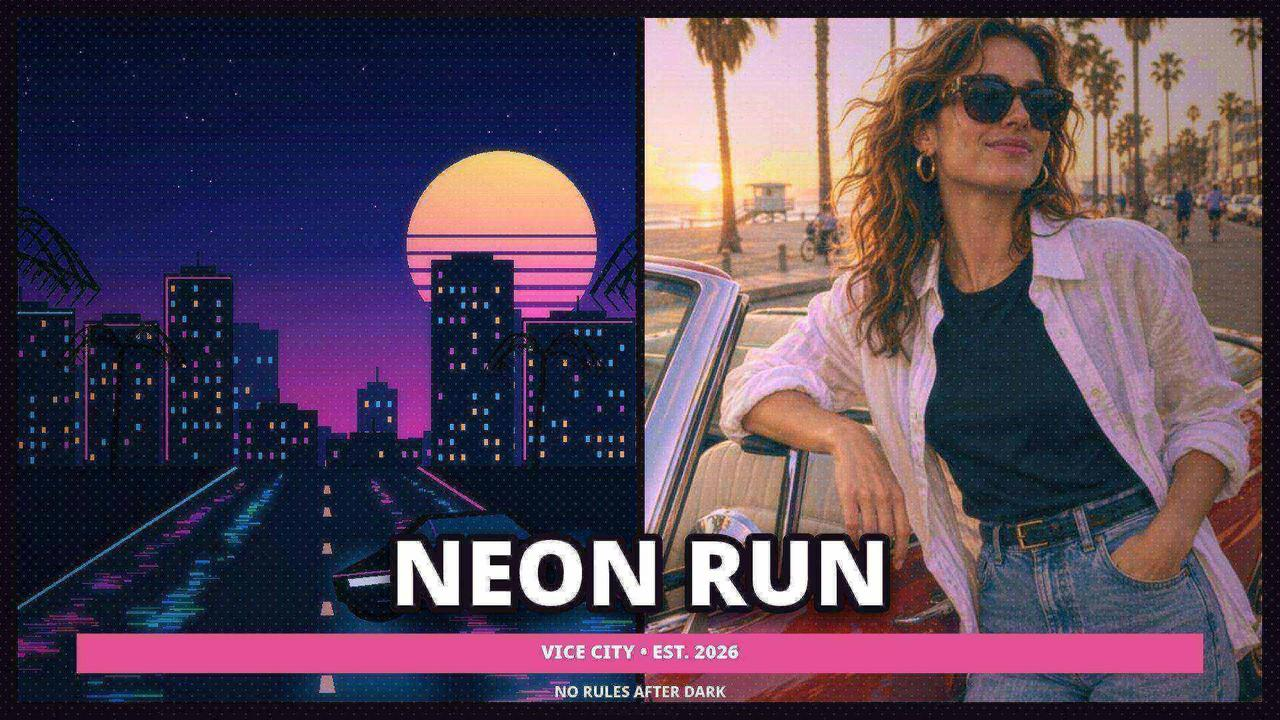
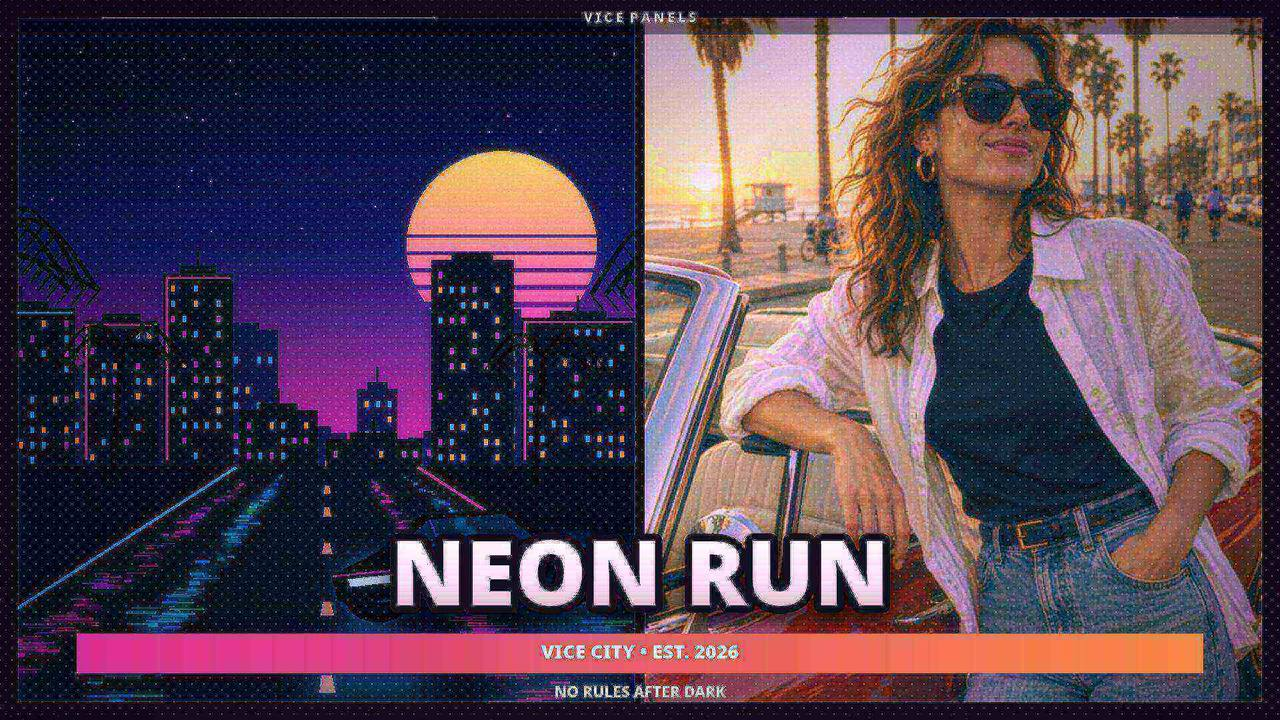
Round 5 art polish: photographic finish on illustrated samples, halation + deterministic grain in renderer, gradient lettering and masthead (recorded session)

Changed region(s): [[0.0, 0.0, 1.0, 0.9778], [0.7812, 0.55, 0.8125, 0.5806], [0.0, 0.7333, 0.0312, 0.7639]]

diff --git a/app/src/cover.js b/app/src/cover.js
@@ -31,6 +31,8 @@ function gradedPhoto(photo, grade) {
     const skin=r>g&&g>b&&r-b>18&&l>.18&&l<.88 ? .38 : 1;
     const x=(i/4)%layer.width,y=Math.floor(i/4/layer.width);
     if(grade==='sunset'){
+      const curve=value=>255*(.5+Math.tanh((value/255-.5)*1.22)/(2*Math.tanh(.61)));
+      r=curve(r);g=curve(g);b=curve(b);
       const gray=l*255;
       r=gray+(r-gray)*1.35;g=gray+(g-gray)*1.35;b=gray+(b-gray)*1.35;
       const sky=Math.pow(Math.max(0,1-y/(layer.height*.7)),1.3)*(.3+.7*l)*skin;
@@ -59,10 +61,19 @@ function gradedPhoto(photo, grade) {
     data[i]=clamp(r);data[i+1]=clamp(g);data[i+2]=clamp(b);
   }
   context.putImageData(pixels,0,0);
-  if(grade==='neon'){
+  // Coordinate-hashed grain is stable across redraws and exports.
+  const grain=context.getImageData(0,0,layer.width,layer.height),gd=grain.data;
+  for(let i=0;i<gd.length;i+=4){
+    const x=(i/4)%layer.width,y=Math.floor(i/4/layer.width);
+    const hash=Math.sin(x*127.1+y*311.7+grade.length*74.7)*43758.5453;
+    const noise=((hash-Math.floor(hash))-.5)*4.2;
+    gd[i]=clamp(gd[i]+noise);gd[i+1]=clamp(gd[i+1]+noise);gd[i+2]=clamp(gd[i+2]+noise);
+  }
+  context.putImageData(grain,0,0);
+  if(grade==='neon'||grade==='sunset'||grade==='golden'){
     // Screen a softly blurred copy for luminous signs and headlights.
-    context.save();context.globalCompositeOperation='screen';context.globalAlpha=.22;
-    context.filter=`blur(${Math.max(3,layer.width*.007)}px)`;
+    context.save();context.globalCompositeOperation='screen';context.globalAlpha=grade==='neon'?.22:.11;
+    context.filter=`blur(${Math.max(3,layer.width*(grade==='neon'?.007:.004))}px)`;
     context.drawImage(layer,0,0);context.restore();
   }
   cached.set(grade,layer);return layer;
@@ -95,6 +106,14 @@ function drawPanel(ctx, rect, panel, grade) {
     ctx.drawImage(gradedPhoto(photo,panel.grade||grade),cx-dw/2,cy-dh/2,dw,dh);
   } else drawPlaceholder(ctx,x,y,w,h);
   ctx.restore();
+  // Fine printed plate edge and inward shading, clipped to this panel.
+  ctx.save();ctx.beginPath();ctx.rect(x,y,w,h);ctx.clip();
+  const edge=ctx.createLinearGradient(x,y,x+w,y+h);
+  edge.addColorStop(0,'rgba(0,0,0,.24)');edge.addColorStop(.18,'rgba(0,0,0,0)');
+  edge.addColorStop(.82,'rgba(0,0,0,0)');edge.addColorStop(1,'rgba(0,0,0,.28)');
+  ctx.fillStyle=edge;ctx.fillRect(x,y,w,h);
+  ctx.strokeStyle='rgba(255,255,255,0.14)';ctx.lineWidth=Math.max(1,Math.min(2,w/500));
+  ctx.strokeRect(x+ctx.lineWidth/2,y+ctx.lineWidth/2,w-ctx.lineWidth,h-ctx.lineWidth);ctx.restore();
 }
 function drawPlaceholder(ctx,x,y,w,h){ctx.fillStyle='#34273a';ctx.fillRect(x,y,w,h);ctx.strokeStyle='#61516a';ctx.lineWidth=2;ctx.strokeRect(x+12,y+12,w-24,h-24);ctx.fillStyle='#9b8da2';ctx.textAlign='center';ctx.font=`700 ${Math.min(w,h)*.06}px system-ui`;ctx.fillText('DROP PHOTO',x+w/2,y+h/2);}
 
@@ -115,9 +134,15 @@ function drawWholeFinish(ctx,w,h,enabled){
   ctx.globalAlpha=.08;for(let i=0;i<Math.min(3500,w*h/700);i++){ctx.fillStyle=i%2?'#fff':'#000';ctx.fillRect(Math.random()*w,Math.random()*h,Math.max(1,w/1300),Math.max(1,h/1300));}ctx.restore();
 }
 function drawLettering(ctx,w,h,state){
+  const mastH=h*.048;ctx.save();ctx.fillStyle='rgba(12,9,17,.46)';ctx.fillRect(0,0,w,mastH);
+  const mastSize=Math.max(9,h*.018);ctx.font=`700 ${mastSize}px system-ui,sans-serif`;ctx.textAlign='center';ctx.textBaseline='middle';
+  ctx.fillStyle='rgba(255,255,255,.85)';ctx.fillText('V I C E  P A N E L S',w/2,mastH*.52);
+  const ruleY=mastH*.52,ruleEnd=w*.36;ctx.strokeStyle='rgba(255,255,255,.55)';ctx.lineWidth=Math.max(1,h*.0012);
+  ctx.beginPath();ctx.moveTo(w*.08,ruleY);ctx.lineTo(w*.34,ruleY);ctx.moveTo(w*.66,ruleY);ctx.lineTo(w*.92,ruleY);ctx.stroke();ctx.restore();
   const title=(state.title||'').trim().toUpperCase();
   if(title){let size=h*.125;ctx.textAlign='center';ctx.textBaseline='middle';ctx.font=`1000 ${size}px Impact, "Arial Narrow", system-ui, sans-serif`;while(ctx.measureText(title).width>w*.91&&size>10){size*=.94;ctx.font=`1000 ${size}px Impact, "Arial Narrow", system-ui, sans-serif`;}
-    const y=h*.805;ctx.save();ctx.lineJoin='round';ctx.shadowColor='rgba(0,0,0,.8)';ctx.shadowBlur=size*.23;ctx.shadowOffsetY=size*.08;ctx.strokeStyle='#120f15';ctx.lineWidth=size*.17;ctx.strokeText(title,w/2,y,w*.93);ctx.shadowColor='transparent';ctx.fillStyle='#fff';ctx.fillText(title,w/2,y,w*.93);ctx.restore();}
-  const subtitle=(state.subtitle||'').trim();if(subtitle){const bandH=h*.055, y=h*.88;ctx.fillStyle='#e64f8d';ctx.fillRect(w*.06,y,w*.88,bandH);ctx.fillStyle='#fff';ctx.font=`900 ${bandH*.48}px system-ui, sans-serif`;ctx.textAlign='center';ctx.textBaseline='middle';ctx.fillText(subtitle.toUpperCase(),w/2,y+bandH/2,w*.82);}
+    const y=h*.805;ctx.save();ctx.lineJoin='round';ctx.shadowColor='rgba(0,0,0,.8)';ctx.shadowBlur=size*.23;ctx.shadowOffsetY=size*.08;ctx.strokeStyle='#120f15';ctx.lineWidth=size*.17;ctx.strokeText(title,w/2,y,w*.93);ctx.shadowColor='transparent';
+    const titleFill=ctx.createLinearGradient(0,y-size*.55,0,y+size*.55);titleFill.addColorStop(0,'#ffffff');titleFill.addColorStop(.48,'#ffe3f1');titleFill.addColorStop(1,'#b8adb0');ctx.fillStyle=titleFill;ctx.fillText(title,w/2,y,w*.93);ctx.restore();}
+  const subtitle=(state.subtitle||'').trim();if(subtitle){const bandH=h*.055, y=h*.88;const band=ctx.createLinearGradient(w*.06,y,w*.94,y);band.addColorStop(0,'#d92d92');band.addColorStop(1,'#f58a42');ctx.fillStyle=band;ctx.fillRect(w*.06,y,w*.88,bandH);ctx.fillStyle='#fff';ctx.font=`900 ${bandH*.48}px system-ui, sans-serif`;ctx.textAlign='center';ctx.textBaseline='middle';ctx.fillText(subtitle.toUpperCase(),w/2,y+bandH/2,w*.82);}
   const tag=(state.tagline||'').trim();if(tag){ctx.textAlign='center';ctx.textBaseline='middle';ctx.fillStyle='rgba(255,255,255,.9)';ctx.font=`800 ${h*.021}px system-ui,sans-serif`;ctx.fillText(tag.toUpperCase(),w/2,h*.963,w*.9);}
 }

diff --git a/main.ts b/main.ts
@@ -1,11 +1,6 @@
-// A working gta6-cover-art-01 entry (Node 22, standard library only): the app is this directory's app/ folder, plain
-// static files a desktop browser loads offline (app/index.html and its ES modules, no library and no network
-// request), and the program hands it in. It copies app/ and screenshots/ from beside this file to /output and writes
-// /output/dossier.json, the summary the judge reads, with the vendored make.fun library. Only the plumbing, not the
-// cover art the bounty asks for: Cover Snap, a plain one-photo square cover with a sunset tint and a bold caption,
-// exported as a 1080 x 1080 PNG. Its two sample photos (app/samples/) were made for make.fun with an image model and
-// are free to use. Build your own GTA-style cover maker in its place, put your 3 or 4 PNG or JPEG screenshots in
-// screenshots/ (the first by name is the cover) and run it.
+// Vice Panels is an offline GTA-style cover maker with four layouts, four colour grades, and bundled sample images.
+// Its static app runs in a desktop browser without network requests or libraries. This entrypoint packages app/ and
+// screenshots/ and writes the make.fun dossier to /output.
 //
 // Serve it locally with `node serve.ts`, then open http://localhost:8080.
 // Outside the grader's container, MAKEFUN_OUTPUT_DIR stands in for /output:

diff --git a/tools/make_sample.py b/tools/make_sample.py
@@ -110,6 +110,17 @@ d.polygon([(901, 714), (940, 711), (938, 721), (900, 724)], fill=(204, 250, 255)
 d.line((667, 767, 933, 744), fill=(56, 100, 127), width=2)
 d.polygon([(724, 750), (856, 736), (856, 751), (728, 766)], fill=(2, 5, 12))
 # A modest bloom keeps the drawing crisp while softening luminous edges.
+# Long mirrored colour streaks make the boulevard pavement read as wet.
+mirror = Image.new('RGBA', (W, H), (0, 0, 0, 0)); mr = ImageDraw.Draw(mirror)
+for ax, color in [(190, (239, 38, 143, 100)), (350, (43, 190, 224, 100)),
+                  (830, (231, 51, 149, 105)), (1030, (42, 205, 231, 100))]:
+    for _ in range(65):
+        yy = rng.randrange(610, H); t = (yy-590)/310
+        xx = 600+(ax-600)*(.2+t)+rng.gauss(0, 22*t)
+        half = rng.uniform(4, 44)*t
+        mr.line((xx-half, yy, xx+half, yy+rng.randrange(4, 23)), fill=color, width=rng.choice([2, 4, 6]))
+mirror = mirror.filter(ImageFilter.GaussianBlur(4))
+im = Image.alpha_composite(im.convert('RGBA'), mirror).convert('RGB')
 im = Image.blend(im, im.filter(ImageFilter.GaussianBlur(5)), .08)
 OUT.parent.mkdir(parents=True, exist_ok=True)
 for quality in range(91, 59, -3):
@@ -119,11 +130,58 @@ for quality in range(91, 59, -3):
 assert OUT.stat().st_size <= 130*1024, 'Sample exceeds size budget'
 print(f'Wrote {OUT} ({W}x{H}, {OUT.stat().st_size} bytes)')
 
+# Atmospheric finishing helpers for the three illustrated scenes.
+def atmosphere(scene, horizon, sky, sunbox, waterline=None):
+    """Layer soft light, cloud forms and distance haze into a scene."""
+    from PIL import ImageChops
+    light = Image.new('RGBA', scene.size, (0, 0, 0, 0))
+    ld = ImageDraw.Draw(light)
+    sx = (sunbox[0] + sunbox[2]) / 2
+    sy = (sunbox[1] + sunbox[3]) / 2
+    ld.ellipse((sx-190, sy-190, sx+190, sy+190), fill=(*sky, 150))
+    light = light.filter(ImageFilter.GaussianBlur(72))
+    scene = Image.alpha_composite(scene.convert('RGBA'), light).convert('RGB')
+    clouds = Image.new('RGBA', scene.size, (0, 0, 0, 0)); cd = ImageDraw.Draw(clouds)
+    for cx, cy, rx, ry in [(140, horizon-78, 180, 27), (410, horizon-112, 150, 23),
+                           (750, horizon-65, 210, 31), (1040, horizon-126, 165, 25)]:
+        col = (*tuple(min(255, int(c*.7+95)) for c in sky), 58)
+        for j in range(7):
+            ox = rng.randrange(-rx//2, rx//2); oy = rng.randrange(-ry//2, ry//2)
+            cd.ellipse((cx+ox-rx//3, cy+oy-ry//2, cx+ox+rx//3, cy+oy+ry//2), fill=col)
+    clouds = clouds.filter(ImageFilter.GaussianBlur(19))
+    scene = Image.alpha_composite(scene.convert('RGBA'), clouds).convert('RGB')
+    # Wash the distant skyline toward the sky, retaining strong foreground contrast.
+    haze = Image.new('RGBA', scene.size, (0, 0, 0, 0)); hd = ImageDraw.Draw(haze)
+    hd.rectangle((0, horizon-45, W, horizon+115), fill=(*sky, 48))
+    scene = Image.alpha_composite(scene.convert('RGBA'), haze.filter(ImageFilter.GaussianBlur(30))).convert('RGB')
+    return scene
+
 # Two additional original scenes let the five-panel Classic layout stay unique.
 def save_scene(scene, name):
     path = OUT.with_name(f'{name}.jpg')
-    scene.save(path, 'JPEG', quality=88, optimize=True)
+    scene = finish_print(scene)
+    scene.save(path, 'JPEG', quality=90, optimize=True)
     print(f'Wrote {path} ({path.stat().st_size} bytes)')
+
+def finish_print(scene):
+    """A restrained, reproducible photographic print treatment."""
+    from PIL import ImageEnhance, ImageOps
+    import numpy as np
+    rgb = np.asarray(scene.convert('RGB'), dtype=np.float32)
+    h, w = rgb.shape[:2]
+    yy, xx = np.mgrid[0:h, 0:w]
+    # Gentle S curve around middle gray.
+    z = rgb / 255.0
+    rgb = 255.0 * (z*z*(3-2*z)*.20 + z*.80)
+    # Seeded fine grain, shared seed stream makes output repeatable.
+    grain = np.fromiter((rng.gauss(0, 1.8) for _ in range(w*h)), dtype=np.float32).reshape(h, w)
+    rgb += grain[:, :, None]
+    image = Image.fromarray(np.uint8(np.clip(rgb, 0, 255)), 'RGB')
+    image = ImageEnhance.Color(image).enhance(1.07)
+    nx = (xx-w/2)/(w*.72); ny = (yy-h/2)/(h*.72)
+    vignette = np.clip(1 - .22*(nx*nx+ny*ny), .76, 1.0)
+    arr = np.asarray(image, dtype=np.float32) * vignette[:, :, None]
+    return Image.fromarray(np.uint8(np.clip(arr, 0, 255)), 'RGB')
 
 coast = Image.new('RGB', (W, H)); cd = ImageDraw.Draw(coast)
 for y in range(H):
@@ -155,6 +213,7 @@ for x, y, scale in [(100, 895, 1.35), (1080, 765, .9)]:
         a = k*pi/4
         end = (top[0]+cos(a)*140*scale, top[1]+sin(a)*58*scale+25)
         cd.line([top, ((top[0]+end[0])/2, min(top[1], end[1])-30), end], fill=(24, 58, 58), width=round(9*scale))
+coast = atmosphere(coast, 420, (250, 160, 135), (190, 250, 320, 380), 600)
 save_scene(coast, 'coast')
 
 motel = Image.new('RGB', (W, H)); md = ImageDraw.Draw(motel)
@@ -187,4 +246,11 @@ md.polygon([(185, 766), (887, 729), (1125, 900), (0, 900)], fill=(233, 184, 161)
 md.polygon([(220, 790), (867, 757), (1045, 885), (87, 885)], fill=(26, 135, 150))
 for y in range(795, 887, 15):
     md.line((240-(y-795), y, 864+(y-795)*1.3, y-7), fill=(75, 184, 184), width=2)
+motel = atmosphere(motel, 320, (250, 146, 130), (705, 158, 835, 288), 665)
 save_scene(motel, 'motel')
+
+# The neon scene is built first; apply the same final pass once all helpers exist.
+neon_path = OUT
+neon = Image.open(neon_path).convert('RGB')
+finish_print(neon).save(neon_path, 'JPEG', quality=90, optimize=True)
+print(f'Wrote {neon_path} ({neon_path.stat().st_size} bytes)')
